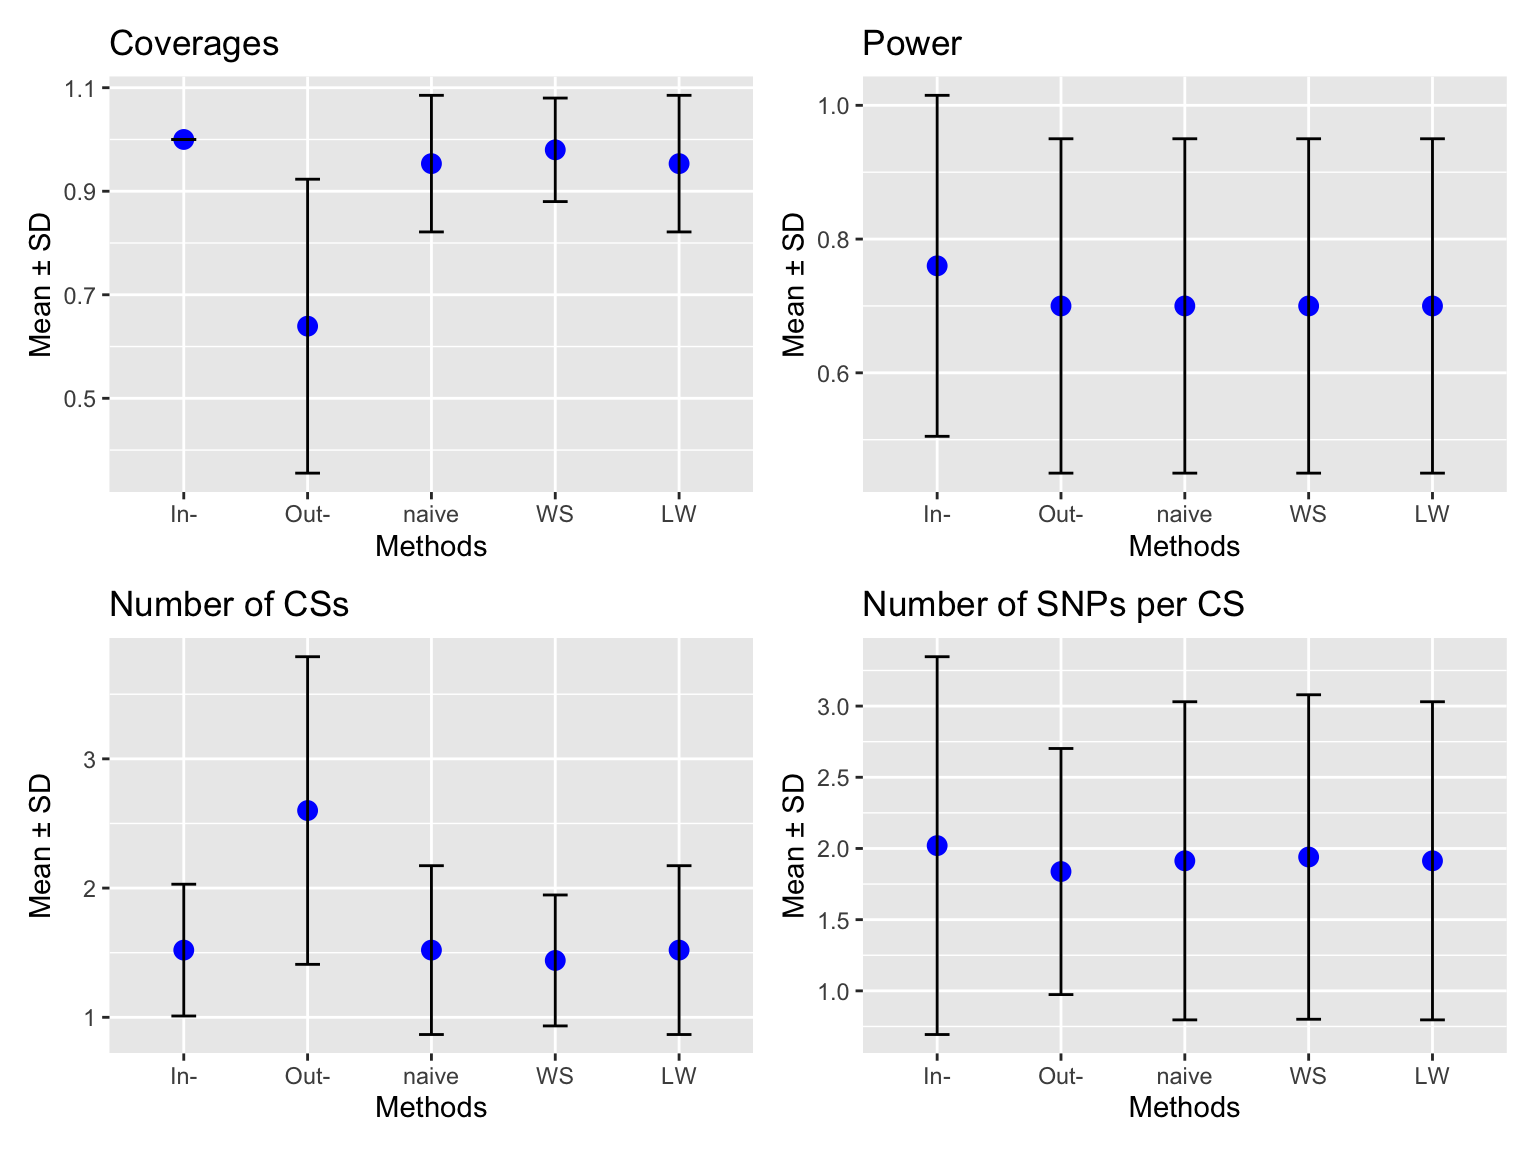
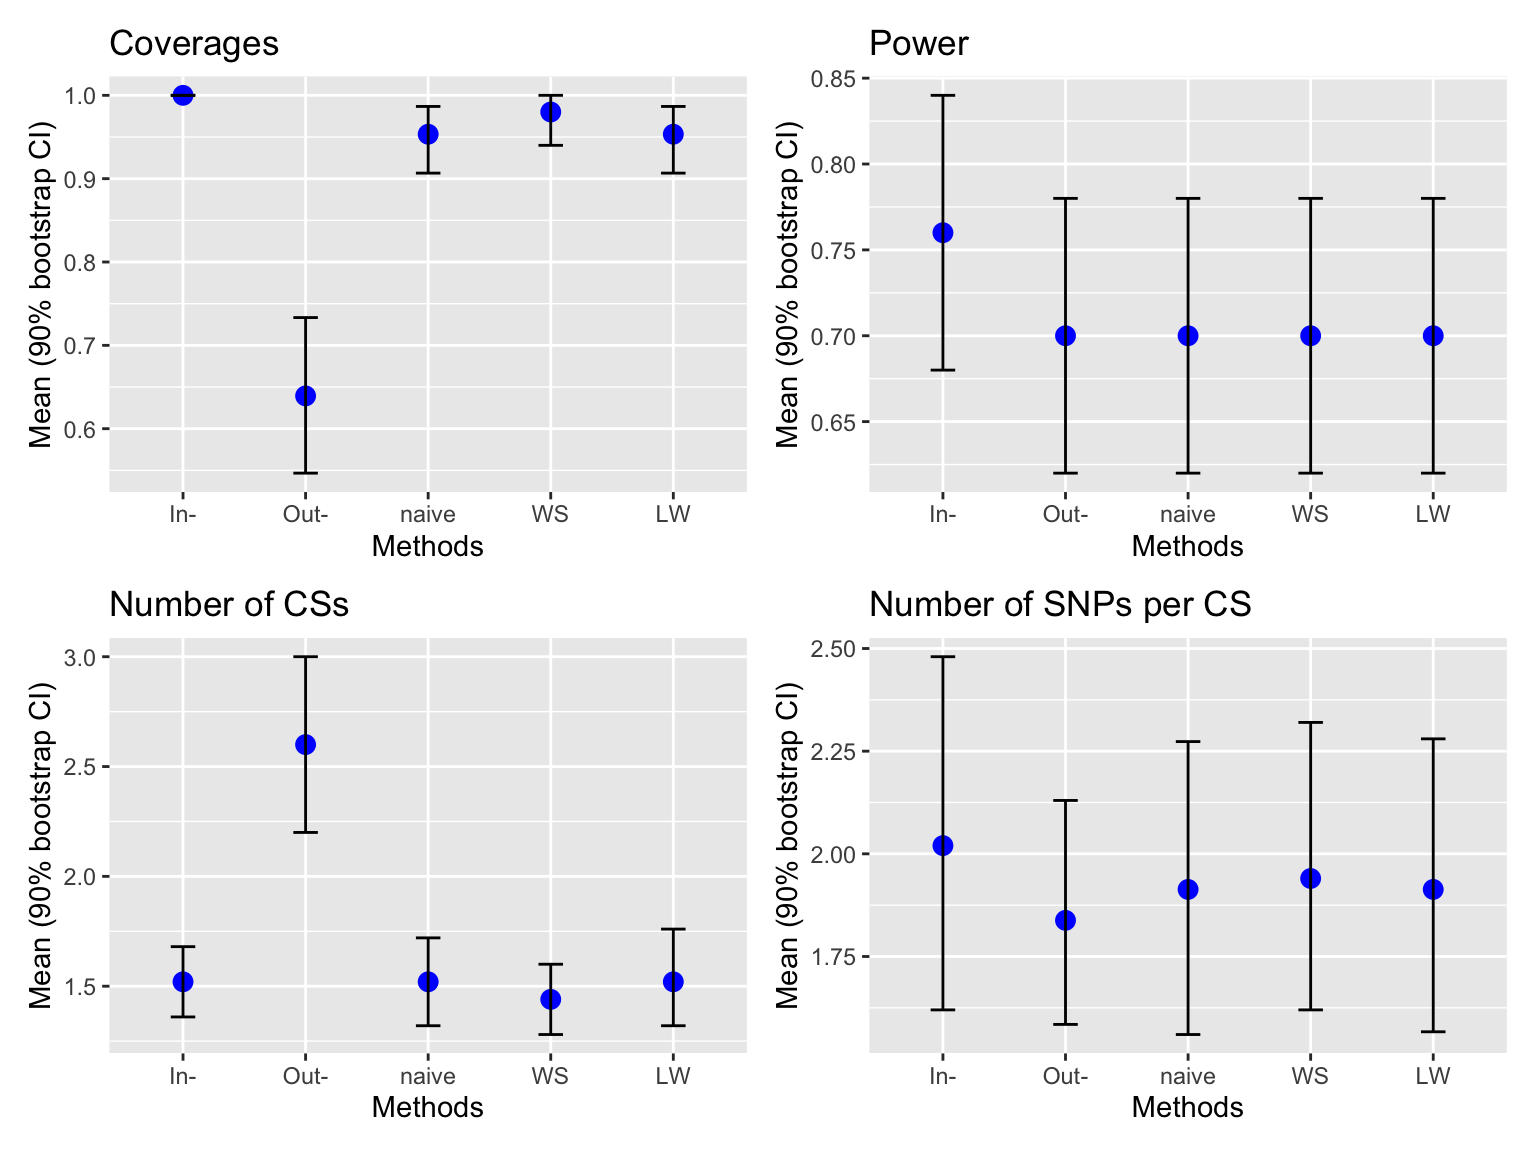
Build site.

diff --git a/docs/systematic-compare-shrinkage-methods.html b/docs/systematic-compare-shrinkage-methods.html
@@ -522,15 +522,15 @@ project makes it easier to run your code on other machines.</p>
 <div class="panel panel-default">
 <div class="panel-heading">
 <p class="panel-title">
-<a data-toggle="collapse" data-parent="#workflowr-checks" href="#strongRepositoryversionstrongahrefhttpsgithubcomdodatstatssusieloveexperimentstree95155c1480cbd056bf6a99a980757a8fa8e9806atargetblank95155c1a">
+<a data-toggle="collapse" data-parent="#workflowr-checks" href="#strongRepositoryversionstrongahrefhttpsgithubcomdodatstatssusieloveexperimentstree72cfa507634fb24c0bd495dc537050f8e21ad6c2targetblank72cfa50a">
 <span class="glyphicon glyphicon-ok text-success"
 aria-hidden="true"></span> <strong>Repository version:</strong>
-<a href="https://github.com/dodat-stats/susie_love_experiments/tree/95155c1480cbd056bf6a99a980757a8fa8e9806a" target="_blank">95155c1</a>
+<a href="https://github.com/dodat-stats/susie_love_experiments/tree/72cfa507634fb24c0bd495dc537050f8e21ad6c2" target="_blank">72cfa50</a>
 </a>
 </p>
 </div>
 <div
[2 lines of base64/hex data omitted]
 class="panel-collapse collapse">
 <div class="panel-body">
 <p>
@@ -540,7 +540,7 @@ reproducibility.
 </p>
 <p>
 The results in this page were generated with repository version
-<a href="https://github.com/dodat-stats/susie_love_experiments/tree/95155c1480cbd056bf6a99a980757a8fa8e9806a" target="_blank">95155c1</a>.
+<a href="https://github.com/dodat-stats/susie_love_experiments/tree/72cfa507634fb24c0bd495dc537050f8e21ad6c2" target="_blank">72cfa50</a>.
 See the <em>Past versions</em> tab to see a history of the changes made
 to the R Markdown and HTML files.
 </p>
@@ -606,6 +606,40 @@ Message
 </tr>
 </thead>
 <tbody>
+<tr>
+<td>
+Rmd
+</td>
+<td>
+<a href="https://github.com/dodat-stats/susie_love_experiments/blob/72cfa507634fb24c0bd495dc537050f8e21ad6c2/analysis/systematic-compare-shrinkage-methods.Rmd" target="_blank">72cfa50</a>
+</td>
+<td>
+dodat-stats
+</td>
+<td>
+2026-06-04
+</td>
+<td>
+Add systematic shrinkage comparison and
+</td>
+</tr>
+<tr>
+<td>
+html
+</td>
+<td>
+<a href="https://rawcdn.githack.com/dodat-stats/susie_love_experiments/36aad368f03e05a7fb91a9202c22d211e564fe16/docs/systematic-compare-shrinkage-methods.html" target="_blank">36aad36</a>
+</td>
+<td>
+dodat-stats
+</td>
+<td>
+2026-06-04
+</td>
+<td>
+Build site.
+</td>
+</tr>
 <tr>
 <td>
 Rmd
@@ -1792,27 +1826,74 @@ for (seed in c(1:num_reps)){
 list_mat = list(coverages, powers, no_CSs, no_SNPs_CS)
 list_name = c(&quot;Coverages&quot;, &quot;Power&quot;, &quot;Number of CSs&quot;, &quot;Number of SNPs per CS&quot;)
 plots = list()
+B &lt;- 2000
 for (i in 1:4){
   m = list_mat[[i]]
   colnames(m) &lt;- c(&#39;In-&#39;, &#39;Out-&#39;, &#39;naive&#39;, &#39;WS&#39;, &#39;LW&#39;)
   means &lt;- colMeans(m)
-  sds   &lt;- apply(m, 2, sd)
+
+  ci_lower &lt;- numeric(ncol(m))
+  ci_upper &lt;- numeric(ncol(m))
+  for (j in 1:ncol(m)) {
+    boot_means &lt;- replicate(B, mean(sample(m[, j], replace = TRUE)))
+    ci_lower[j] &lt;- quantile(boot_means, 0.05)
+    ci_upper[j] &lt;- quantile(boot_means, 0.95)
+  }
+
   df &lt;- data.frame(
     variable = factor(colnames(m), levels = colnames(m)),
     mean = means,
-    sd = sds
+    lower = ci_lower,
+    upper = ci_upper
   )
-  
+
   plots[[i]] = ggplot(df, aes(x = variable, y = mean)) +
     geom_point(size = 3, color = &quot;blue&quot;) +
-    geom_errorbar(aes(ymin = mean - sd, ymax = mean + sd), width = 0.2) +
+    geom_errorbar(aes(ymin = lower, ymax = upper), width = 0.2) +
     labs(title = list_name[i],
-         x = &quot;Methods&quot;, y = &quot;Mean ± SD&quot;)
+         x = &quot;Methods&quot;, y = &quot;Mean (90% bootstrap CI)&quot;)
 }
 
 library(patchwork)
 wrap_plots(plots, ncol = 2)</code></pre>
 <p><img src="figure/systematic-compare-shrinkage-methods.Rmd/results-1.png" alt="" width="768" style="display: block; margin: auto;" /></p>
+<p>
+<button type="button" class="btn btn-default btn-xs btn-workflowr btn-workflowr-fig" data-toggle="collapse" data-target="#fig-results-1">
+Past versions of results-1.png
+</button>
+</p>
+<div id="fig-results-1" class="collapse">
+<div class="table-responsive">
+<table class="table table-condensed table-hover">
+<thead>
+<tr>
+<th>
+Version
+</th>
+<th>
+Author
+</th>
+<th>
+Date
+</th>
+</tr>
+</thead>
+<tbody>
+<tr>
+<td>
+<a href="https://github.com/dodat-stats/susie_love_experiments/blob/36aad368f03e05a7fb91a9202c22d211e564fe16/docs/figure/systematic-compare-shrinkage-methods.Rmd/results-1.png" target="_blank">36aad36</a>
+</td>
+<td>
+dodat-stats
+</td>
+<td>
+2026-06-04
+</td>
+</tr>
+</tbody>
+</table>
+</div>
+</div>
 <br>
 <p>
 <button type="button" class="btn btn-default btn-workflowr btn-workflowr-sessioninfo" data-toggle="collapse" data-target="#workflowr-sessioninfo" style="display: block;">

diff --git a/docs/index.html b/docs/index.html
@@ -357,15 +357,15 @@ results.</p>
 <div class="panel panel-default">
 <div class="panel-heading">
 <p class="panel-title">
-<a data-toggle="collapse" data-parent="#workflowr-checks" href="#strongRepositoryversionstrongahrefhttpsgithubcomdodatstatssusieloveexperimentstree95155c1480cbd056bf6a99a980757a8fa8e9806atargetblank95155c1a">
+<a data-toggle="collapse" data-parent="#workflowr-checks" href="#strongRepositoryversionstrongahrefhttpsgithubcomdodatstatssusieloveexperimentstree72cfa507634fb24c0bd495dc537050f8e21ad6c2targetblank72cfa50a">
 <span class="glyphicon glyphicon-ok text-success"
 aria-hidden="true"></span> <strong>Repository version:</strong>
-<a href="https://github.com/dodat-stats/susie_love_experiments/tree/95155c1480cbd056bf6a99a980757a8fa8e9806a" target="_blank">95155c1</a>
+<a href="https://github.com/dodat-stats/susie_love_experiments/tree/72cfa507634fb24c0bd495dc537050f8e21ad6c2" target="_blank">72cfa50</a>
 </a>
 </p>
 </div>
 <div
[2 lines of base64/hex data omitted]
 class="panel-collapse collapse">
 <div class="panel-body">
 <p>
@@ -375,7 +375,7 @@ reproducibility.
 </p>
 <p>
 The results in this page were generated with repository version
-<a href="https://github.com/dodat-stats/susie_love_experiments/tree/95155c1480cbd056bf6a99a980757a8fa8e9806a" target="_blank">95155c1</a>.
+<a href="https://github.com/dodat-stats/susie_love_experiments/tree/72cfa507634fb24c0bd495dc537050f8e21ad6c2" target="_blank">72cfa50</a>.
 See the <em>Past versions</em> tab to see a history of the changes made
 to the R Markdown and HTML files.
 </p>
@@ -439,6 +439,23 @@ Message
 </tr>
 </thead>
 <tbody>
+<tr>
+<td>
+html
+</td>
+<td>
+<a href="https://rawcdn.githack.com/dodat-stats/susie_love_experiments/36aad368f03e05a7fb91a9202c22d211e564fe16/docs/index.html" target="_blank">36aad36</a>
+</td>
+<td>
+dodat-stats
+</td>
+<td>
+2026-06-04
+</td>
+<td>
+Build site.
+</td>
+</tr>
 <tr>
 <td>
 Rmd
